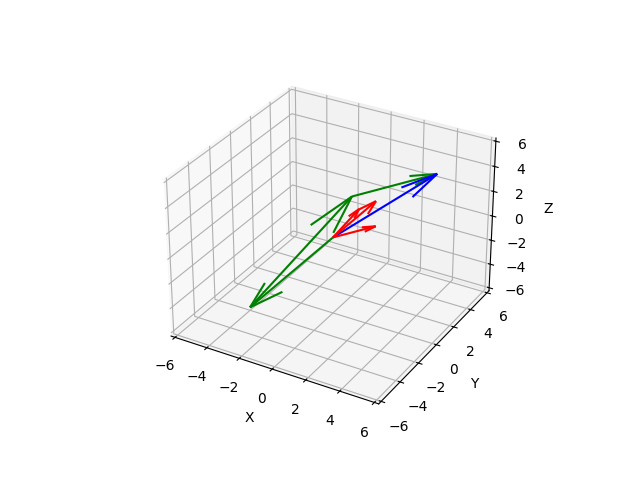
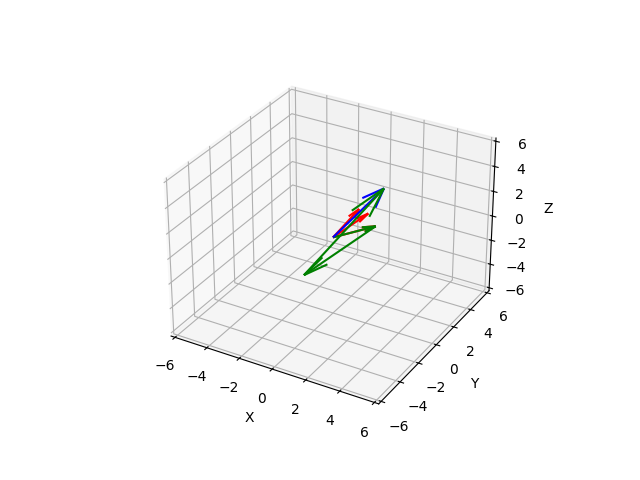
Modify code in 23.

Changed region(s): [[0.375, 0.3438, 0.6875, 0.6562]]

diff --git a/23_matrix_product_geometry_interpretation/row_picure_3by3.py b/23_matrix_product_geometry_interpretation/row_picure_3by3.py
@@ -2,13 +2,13 @@ import numpy as np
 import matplotlib.pyplot as plt
 from mpl_toolkits.mplot3d import Axes3D
 
-a1 = np.array([2, 1, 2])
-a2 = np.array([1, 1, 1])
-a3 = np.array([3, 2, 1])
+a1 = np.array([1, 2, 3])
+a2 = np.array([2, 5, 2])
+a3 = np.array([6, -3, 1])
 
 # A = np.column_stack((a1, a2, a3))
 A = np.array([a1, a2, a3])
-b = np.array([4, 4, 4])
+b = np.array([6, 4, 2])
 
 # Define the x and y coordinates of the surface
 x = np.linspace(-5, 5, 100)
@@ -25,9 +25,9 @@ fig = plt.figure()
 ax = fig.add_subplot(111, projection='3d')
 
 # Plot the surface
-ax.plot_surface(X, Y, Z1, alpha=0.2)
-ax.plot_surface(X, Y, Z2, alpha=0.2)
-ax.plot_surface(X, Y, Z3, alpha=0.2)
+ax.plot_surface(X, Y, Z1, alpha=0.5)
+ax.plot_surface(X, Y, Z2, alpha=0.5)
+ax.plot_surface(X, Y, Z3, alpha=0.5)
 
 # Plot the line where surface intersects
 # a1 and a2
@@ -36,7 +36,7 @@ a2_d = c12*a2; b2_d = c12*b[1]
 diffa12 = a1 - a2_d; diffb12 = b[0] - b2_d
 a12 = -diffa12[0]/diffa12[1] # y = a12*x + b12
 b12 = diffb12/diffa12[1] # y = a12*x + b12
-x12 = [-10, 10]
+x12 = [-3, 3]
 y12 = [a12*x12[0]+b12, a12*x12[1]+b12]
 z12 = [b[0]/a1[2] - a1[0]/a1[2]*x12[0] - a1[1]/a1[2]*y12[0], b[0]/a1[2] - a1[0]/a1[2]*x12[1] - a1[1]/a1[2]*y12[1]]
 ax.plot(x12, y12, z12)
@@ -47,7 +47,7 @@ a3_d = c23*a3; b3_d = c23*b[2]
 diffa23 = a2 - a3_d; diffb23 = b[1] - b3_d
 a23 = -diffa23[0]/diffa23[1] # y = a23*x + b23
 b23 = diffb23/diffa23[1] # y = a23*x + b23
-x23 = [-10, 10]
+x23 = [-3, 3]
 y23 = [a23*x23[0]+b23, a23*x23[1]+b23]
 z23 = [b[1]/a2[2] - a2[0]/a2[2]*x23[0] - a2[1]/a2[2]*y23[0], b[1]/a2[2] - a2[0]/a2[2]*x23[1] - a2[1]/a2[2]*y23[1]]
 ax.plot(x23, y23, z23)
@@ -58,7 +58,7 @@ a1_d = c31*a1; b1_d = c31*b[0]
 diffa31 = a3 - a1_d; diffb31 = b[2] - b1_d
 a31 = -diffa31[0]/diffa31[1] # y = a31*x + b31
 b31 = diffb31/diffa31[1] # y = a31*x + b31
-x31 = [-10, 10]
+x31 = [-3, 3]
 y31 = [a31*x31[0]+b31, a31*x31[1]+b31]
 z31 = [b[2]/a3[2] - a3[0]/a3[2]*x31[0] - a3[1]/a3[2]*y31[0], b[2]/a3[2] - a3[0]/a3[2]*x31[1] - a3[1]/a3[2]*y31[1]]
 ax.plot(x31, y31, z31)
@@ -77,5 +77,5 @@ ax.set_ylim([-5, 5])
 ax.set_zlim([-5, 5])
 
 # Show the plot
-plt.savefig("23_matrix_product_geometry_interpretation/figure/row3by3.png")  
-# plt.show()
+# plt.savefig("23_matrix_product_geometry_interpretation/figure/row3by3.png")  
+plt.show()

diff --git a/23_matrix_product_geometry_interpretation/temp.py b/23_matrix_product_geometry_interpretation/temp.py
@@ -1,0 +1,41 @@
+import numpy as np
+import matplotlib.pyplot as plt
+from mpl_toolkits.mplot3d import Axes3D
+
+a1 = np.array([1, 2, 3])
+a2 = np.array([2, 5, 2])
+a3 = np.array([6, -3, 1])
+
+# A = np.column_stack((a1, a2, a3))
+A = np.array([a1, a2, a3])
+b = np.array([8, 4, 2])
+
+# Define the x and y coordinates of the surface
+x = np.linspace(-3, 3, 100)
+y = np.linspace(-3, 3, 100)
+X, Y = np.meshgrid(x, y)
+
+# Define the function that defines the surface
+Z1 = b[0]/a1[2] - a1[0]/a1[2]*X - a1[1]/a1[2]*Y
+Z2 = b[1]/a2[2] - a2[0]/a2[2]*X - a2[1]/a2[2]*Y
+Z3 = b[2]/a3[2] - a3[0]/a3[2]*X - a3[1]/a3[2]*Y
+
+# Create the figure and axes
+fig = plt.figure()
+ax = fig.add_subplot(111, projection='3d')
+
+# Set the limits of the x, y, and z axes
+ax.set_xlim([-5, 5])
+ax.set_ylim([-5, 5])
+ax.set_zlim([-5, 5])
+
+# Plot the surface
+surf1 = ax.plot_surface(X, Y, Z1, alpha=0.5)
+surf2 = ax.plot_surface(X, Y, Z2, alpha=0.5)
+# plt.show()
+# Set the limits of the color scale for the surfaces
+surf1.set_clim(-5, 5)
+surf2.set_clim(-5, 5)
+
+# Show the plot
+plt.show()

diff --git a/23_matrix_product_geometry_interpretation/column_picture_3by3.py b/23_matrix_product_geometry_interpretation/column_picture_3by3.py
@@ -3,12 +3,12 @@ import matplotlib.pyplot as plt
 from mpl_toolkits.mplot3d import Axes3D
 
 # Define the vectors
-a1 = np.array([[2], [1], [3]])
-a2 = np.array([[1], [1], [2]])
-a3 = np.array([[2], [1], [1]])
+a1 = np.array([[2], [1], [1]])
+a2 = np.array([[1], [2], [1]])
+a3 = np.array([[1], [1], [2]])
 
 A = np.column_stack((a1, a2, a3))
-b = np.array([[4], [4], [4]])
+b = np.array([[3], [0], [5]])
 # print(A)
 Ainv = np.linalg.inv(A) # Inverse of A
 x = Ainv@b              # Solution to Ax = b
